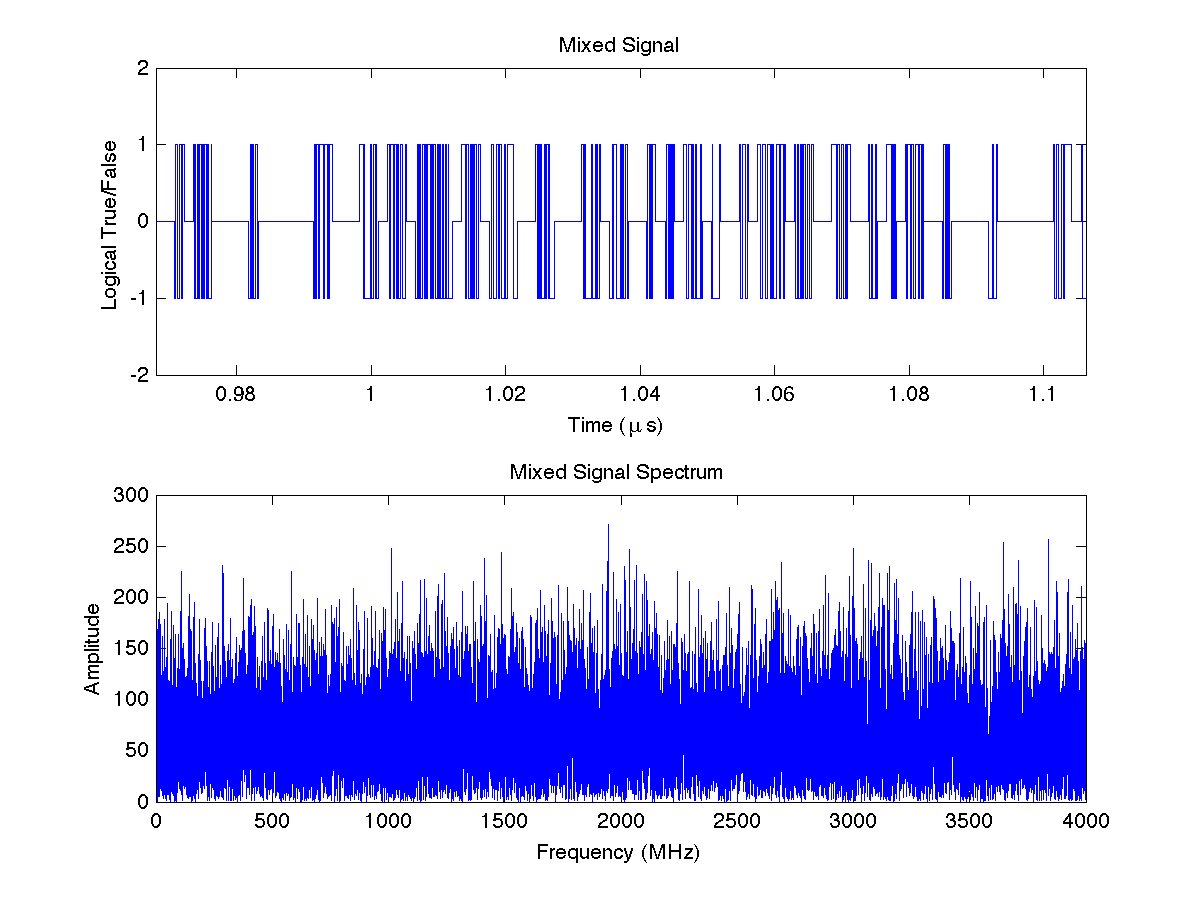
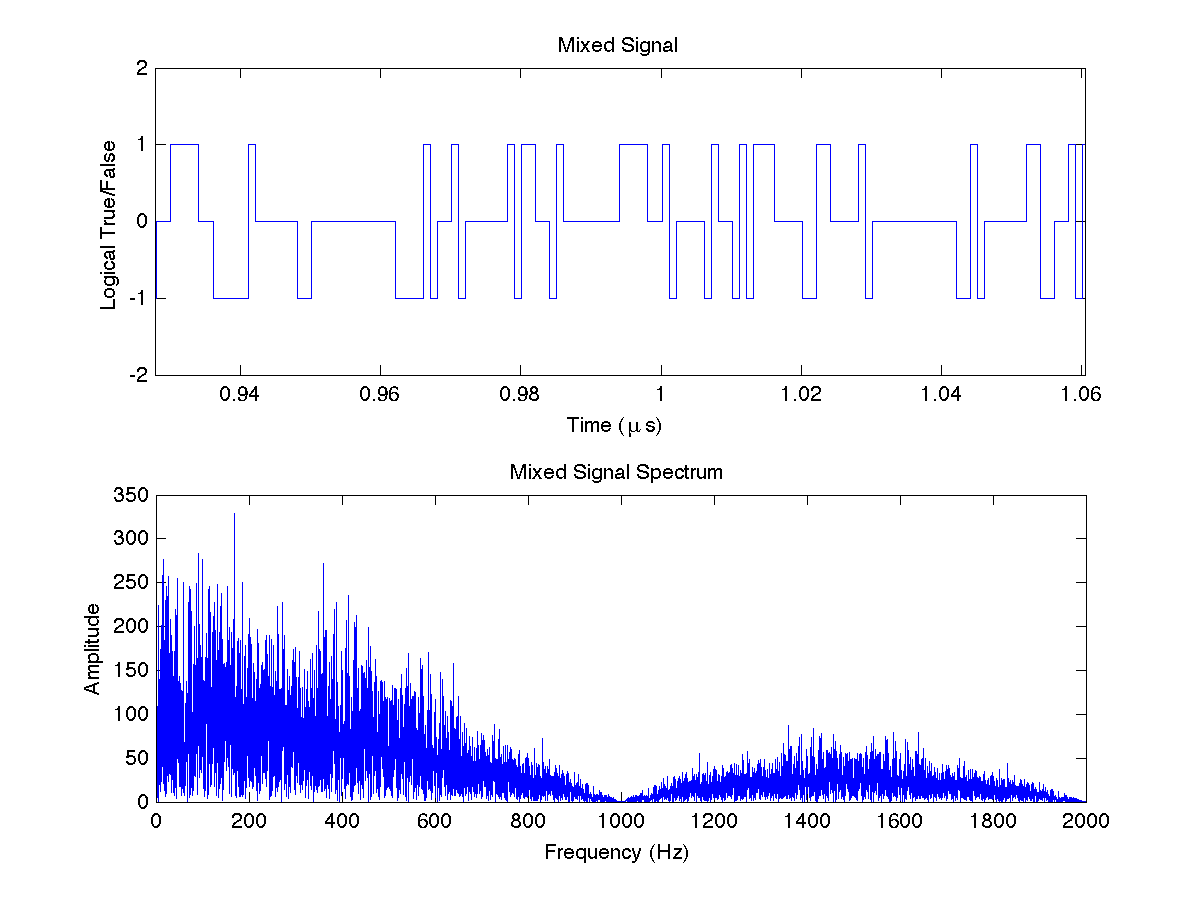
Rev 4
Works with a 13% bit error, not bad, but not great

diff --git a/dsss_project.tex b/dsss_project.tex
@@ -35,7 +35,7 @@ WARNING: JUST A PLACE HOLDER
 In telecommunications, direct-sequence spread spectrum (DSSS) is a spread spectrum modulation technique. Spread spectrum systems are such that they transmit the message bearing signals using a bandwidth that is in excess of the bandwidth that is actually needed by the message signal. One of the methods of achieving this spreading of the message signal is provided by DSSS modulation. In DSSS the message signal is used to modulate a bit sequence known as the Pseudo Noise (PN) code; this PN code consists of pulses of a much shorter duration (larger bandwidth) than the pulse duration of the message signal, therefore the modulation by the message signal has the effect of chopping up the pulses of the message signal and thereby resulting in a signal which has a bandwidth nearly as large as that of the PN sequence.[1] In this context the duration of the pulse of the PN code is referred to as the chip duration and the smaller this value, the larger the bandwidth of the resultant DSSS signal and the more immune to interference the resultant signal becomes.[1] Some of the uses of DSSS include the Code Division Multiple Access (CDMA) channel access method and the IEEE 802.11b specification used in Wi-Fi networks.[2][3]
 
 \section{Signal Creation}
-Spread spectrum is first created by a PN and a data signal. The data signal is a string of character created into an array of 8 bit binary number combinations based on the ASCII value of the characters. This gives our signal length as well some complexity for accurate transition analysis. This is fed through an encoder which converts a signal bit into 11 bits of that same value. This is used for voting to reduce bit error. This signal has a frequency spectrum which matches the following graphs (see Figure~\ref{fig:id}). Usually it is preferred that a digital I/O signal is modulated by a PN whose bit rate is much higher than the digital I/O signals bit rate. This PN signal has a frequency spectrum which is very noisy containing all of the frequencies, just like white noise (see Figure~\ref{fig:PN}).\\
+Spread spectrum is first created by a PN and a data signal. The data signal is a string of character created into an array of 8 bit binary number combinations based on the ASCII value of the characters. This gives our signal length as well some complexity for accurate transition analysis. This is fed through an encoder which converts a signal bit into 16 bits of that same value. This is used for voting to reduce bit error. This signal has a frequency spectrum which matches the following graphs (see Figure~\ref{fig:id}). Usually it is preferred that a digital I/O signal is modulated by a PN whose bit rate is much higher than the digital I/O signals bit rate. This PN signal has a frequency spectrum which is very noisy containing all of the frequencies, just like white noise (see Figure~\ref{fig:PN}).\\
 
 \begin{figure}[h!]
 \centering
@@ -52,7 +52,7 @@ Spread spectrum is first created by a PN and a data signal. The data signal is a
 \end{figure}
 \end{appendices}
 
-These two signals are then modulated together to form a digital I/O signal carried by a PN signal creating the basis for the DSSS signal (see Figure~\ref{fig:mod_PN}). This signal is then band limited and carrier by a Large Carrier signal (see Figure~\ref{fig:dsb_lc}) which can be demodulated by the receiver and then down converted. 
+These two signals are then modulated together to form a digital I/O signal carried by a PN signal creating the basis for the DSSS signal (see Figure~\ref{fig:mod_PN}). This signal is then band limited and carrier by a Large Carrier signal (see Figure~\ref{fig:dsb_lc}) which can be demodulated by the receiver and then down converted. In order to reduce the bit transfer error of this form of communication the frequency of the PN was decreased to eliminate losses with the band limiting of the signal. When the signal was band limited a bit error of $\~13\%$ was observed. However, when the signal was transmitted on a carrier and then demodulated using a synchronous demodulator only a $0.25\%$ increase in bit loss was observed, after applying an amplifier to boost the signal.
 
 \begin{figure}[h!]
 \centering
@@ -68,7 +68,7 @@ These two signals are then modulated together to form a digital I/O signal carri
 \label{fig:dsb_lc}
 \end{figure}
 
-This signal is then despread to recreate the original signal. This despreading is done by multiplying the demodulating signal by the original PN (see Figure~\ref{fig:despread}). To verify the signals integrity a comparison was done to compare the bit error of the signal and it was found to have $0\%$ bit error. 
+This signal is then despread to recreate the original signal. This despreading is done by multiplying the demodulating signal by the original PN (see Figure~\ref{fig:despread}). To verify the signals integrity a comparison was done to compare the bit error of the signal and it was found to have $\~13.25\%$ bit error. This error, as discussed above, is due to the band limiting of the signal for transmutation. HT
 
 \begin{figure}
 \centering

diff --git a/DSSS_signal_generation.m b/DSSS_signal_generation.m
@@ -2,7 +2,7 @@
 
 string = 'Four score and seven years ago our fathers brought forth on ';
 string = [string,'this continent, a new nation, conceived in Liberty, and '];
-string = [string,'dedicated to the proposition that all men are created equal.'];
+%string = [string,'dedicated to the proposition that all men are created equal.'];
 
 
 % Convert ASCII characters to Binary Strings
@@ -14,7 +14,7 @@ end
 
 %data = ['0','0','0','1','0','1','0','0','0','1','0','1','0','0','0','1','0','1'];
 % Encode the signal for voting
-bitres = 11;
+bitres = 8;
 encode = [];
 for n = 1:length(data)
     if data(n) == '0'
@@ -28,46 +28,43 @@ len = length(encode);
 
 % Creating a pseudoradom binary sequence
 
-reps = len;
+reps = 4;
 div = len/reps;
 
-pseudo = rand(1,len);
-
-for x = 1:len/div
+pseudo = rand(1,div);
+prbn = [];
+for x = 1:div
     if pseudo(x) >= 0.5 && pseudo(x) <= 1.0
-        pseudo(x) = -1;
+        prbn = [prbn,-1*ones(1,reps)];
     elseif pseudo(x) >= 0  && pseudo(x) < 0.5
         pseudo(x) = 1;
+        prbn = [prbn,ones(1,reps)];
     end
 end
 
-prbn = [];
-for x = 1:div
-   prbn = [prbn,pseudo];
-end
 
 % Plot the information signal
 
 % Time plotting
 
-fs = 8000; % ~2 GHz
+fs = 4000; % ~2 GHz
 factor = 1;
 tend = len/fs;
-tscale = tend*factor;
+tscale = tend;
 t = linspace(0,len/fs,len);
 
 [EN f] = ComputeSpectrum(encode,fs,2^20);
 
 figure('Color',[1 1 1]);
 subplot(2,1,1);
-stairs(t*factor,encode);
+stairs(t,encode);
 ylim([0 2]);
 xlim([tscale/2 2*tscale/3]);
 xlabel('Time (\mus)');
 ylabel('Logical True/False');
 title('Encoded Information Signal');
 subplot(2,1,2);
-stairs(f/factor,EN);
+stairs(f,EN);
 xlabel('Frequency (kHz)');
 ylabel('Amplitude');
 title('Encoded Information Signal Spectrum');
@@ -79,15 +76,15 @@ saveas(gcf,'./images/encoded_signal','png');
 
 figure('Color',[1 1 1]);
 subplot(2,1,1);
-stairs(t*factor,prbn);
+stairs(t,prbn);
 ylim([-2 2]);
 xlim([tscale/2 4*tscale/7]);
-xlabel('Time (\mus)');
+xlabel('Time (s)');
 ylabel('Logical True/False');
 title('Pseudorandom Binary Signal');
 subplot(2,1,2);
-stairs(f/factor,EN);
-xlabel('Frequency (MHz)');
+stairs(f,EN);
+xlabel('Frequency (Hz)');
 ylabel('Amplitude');
 title('Pseudorandom Binary Signal Spectrum');
 saveas(gcf,'./images/pseudo_signal','png');
@@ -99,15 +96,15 @@ mod_sig = prbn.*encode;
 
 figure('Color',[1 1 1]);
 subplot(2,1,1);
-stairs(t*factor,mod_sig);
+stairs(t,mod_sig);
 ylim([-2 2]);
 xlim([tscale/2 4*tscale/7]);
 xlabel('Time (\mus)');
 ylabel('Logical True/False');
 title('Mixed Signal');
 subplot(2,1,2);
-stairs(f/factor,EN);
-xlabel('Frequency (MHz)');
+stairs(f,EN);
+xlabel('Frequency (Hz)');
 ylabel('Amplitude');
 title('Mixed Signal Spectrum');
 saveas(gcf,'./images/dsss','png');

diff --git a/SYNCH_DEMOD.m b/SYNCH_DEMOD.m
@@ -50,18 +50,18 @@ filter = fir1(filt_order,fn*2/fs,'high');
 output = filtfilt(filter,1,new_sig);
 atten = max(output);
 orig = max(sampled_signal);
-comp = atten*sampled_signal/orig;
+output = (orig/atten)*output;
 plotgraph(t,output,'ro','Time (sec)','Amplitude',...
           'Comparison of Two Signals');
 hold on;
-plot(t,comp);
+plot(t,sampled_signal);
 legend('Demod','Original');
 
 % FFT Comparison SD: This section takes and compares the filtered signal with the original in
 % the frequency domain.
 
 [H f] = ComputeSpectrum(output,fs,2^16);
-[X f] = ComputeSpectrum(comp,fs,2^16);
+[X f] = ComputeSpectrum(sampled_signal,fs,2^16);
 
 plotgraph(f,H,'ro','Frequency (Hz)','Amplitude',...
           'Comparison of Two Signals in the Frequency Domain');

diff --git a/decode.m b/decode.m
@@ -18,7 +18,7 @@ for x = 1:length(output)
         orig = 0;
         for h = 1:bitres
         vote = vote + reconsig(x+1-bitres);
-        orig = vote + encode(x+1-bitres);
+        orig = orig + encode(x+1-bitres);
         end
         vote = vote/bitres;
         orig = orig/bitres;

diff --git a/Despread.m b/Despread.m
@@ -34,8 +34,8 @@ ylim([0 2]);
 % Compare the two signal to produce a standard error
 
 error = 0;
-for d = 1:length(info_sig)
-    if info_sig(d) ~= origin(d)
+for d = 1:length(reconsig)
+    if reconsig(d) ~= encode(d)
         error = error + 1;
     end
 end
